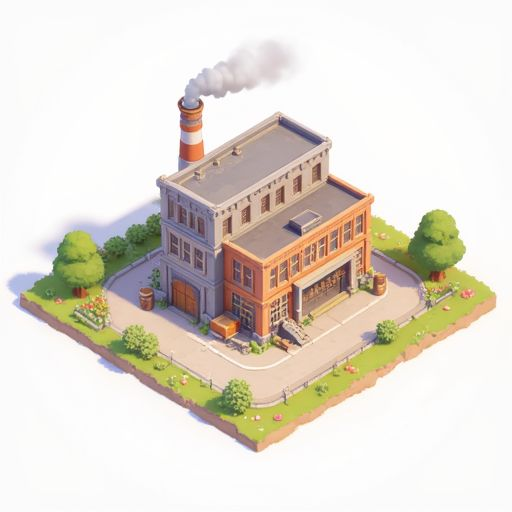
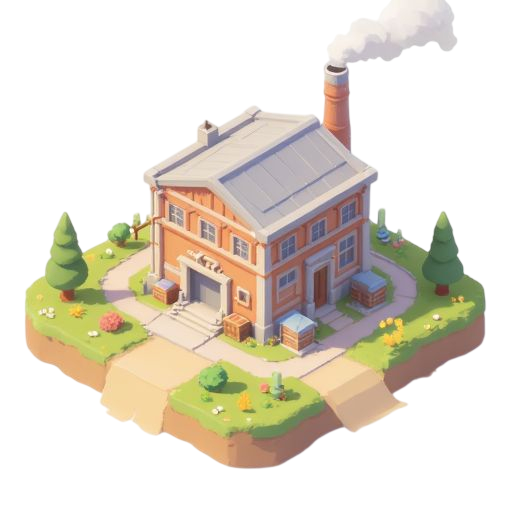
Regenerate all building assets with background removal

diff --git a/agents/skills/images.ts b/agents/skills/images.ts
@@ -183,21 +183,18 @@ export async function requestImage(options: RequestImageOptions): Promise<Reques
 
 /**
  * Remove background from an existing asset using Scenario API.
- * Uses the model_bria-remove-background model via the custom generation endpoint.
+ * Uses the deprecated /generate/remove-background endpoint.
  * @param assetId The asset ID of the image to remove background from
  * @returns RemoveBackgroundResult with URL to the new asset without background
  */
 export async function removeBackground(assetId: string): Promise<RemoveBackgroundResult> {
-  const modelId = "model_bria-remove-background";
-  
   const body = {
-    parameters: {
-      image: assetId,
-      preserveAlpha: true,
-    },
+    image: assetId,
+    format: "png",
+    backgroundColor: "transparent",
   };
 
-  const res = await fetch(`${SCENARIO_BASE}/generate/custom/${modelId}`, {
+  const res = await fetch(`${SCENARIO_BASE}/generate/remove-background`, {
     method: "POST",
     headers: {
       Authorization: getAuthHeader(),
